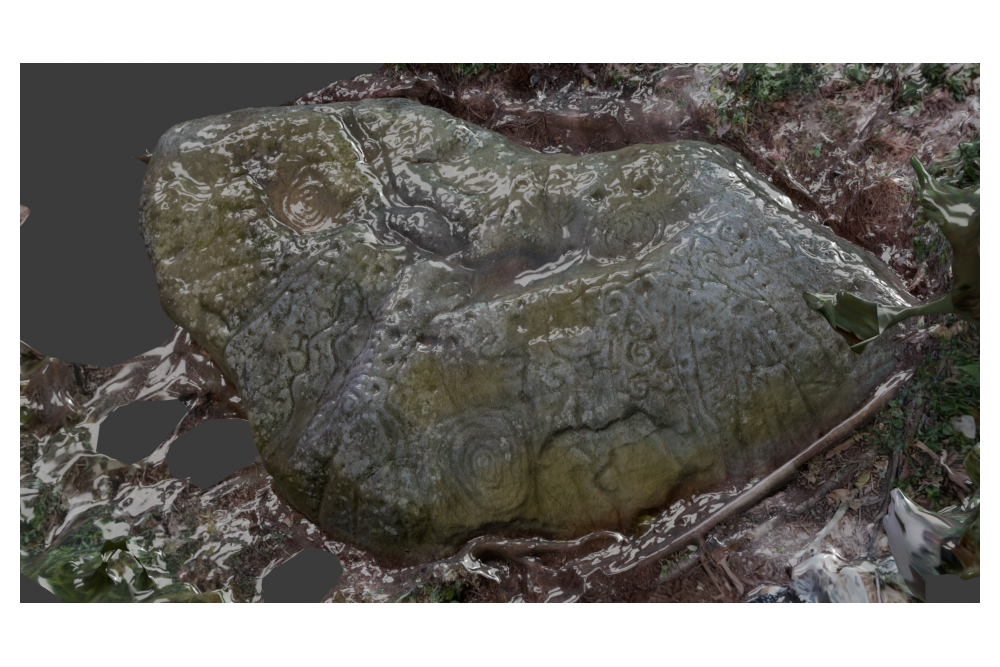
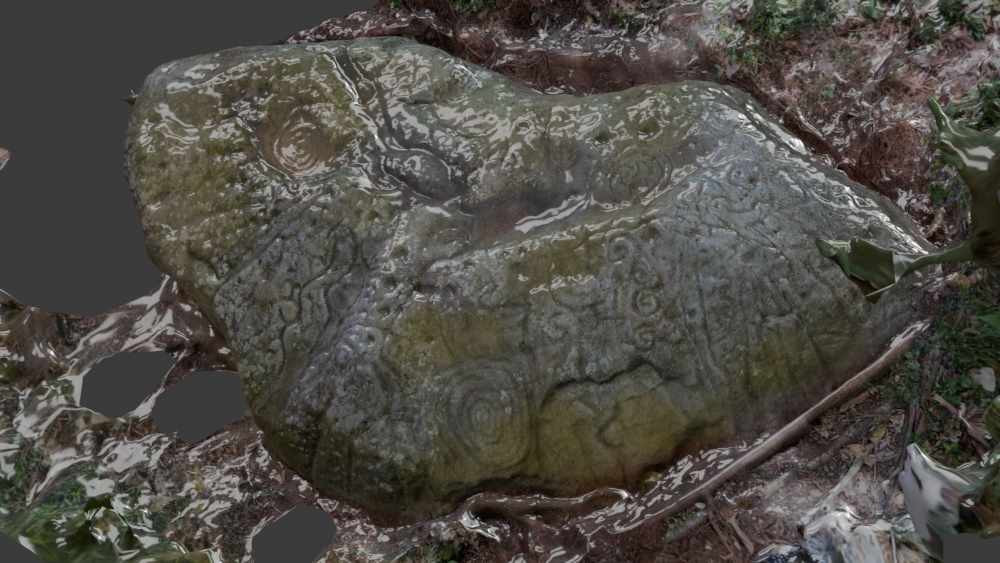
bor

diff --git a/_posts/2016-07-06-prisma-05.md b/_posts/2016-07-06-prisma-05.md
@@ -1,7 +1,7 @@
 ---
 layout:** post
 title:** Prisma. P-005
-image:
+image: prisma
 ---
 
 <h3>Información General</h3>

diff --git a/_posts/2026-07-06-rio-tanques-004.md b/_posts/2026-07-06-rio-tanques-004.md
@@ -1,7 +1,7 @@
 ---
 layput: post
 title: El Río de los Tanques. P-004
-image: 
+image: rio-tanques
 ---
 
 <h3>Información General</h3>